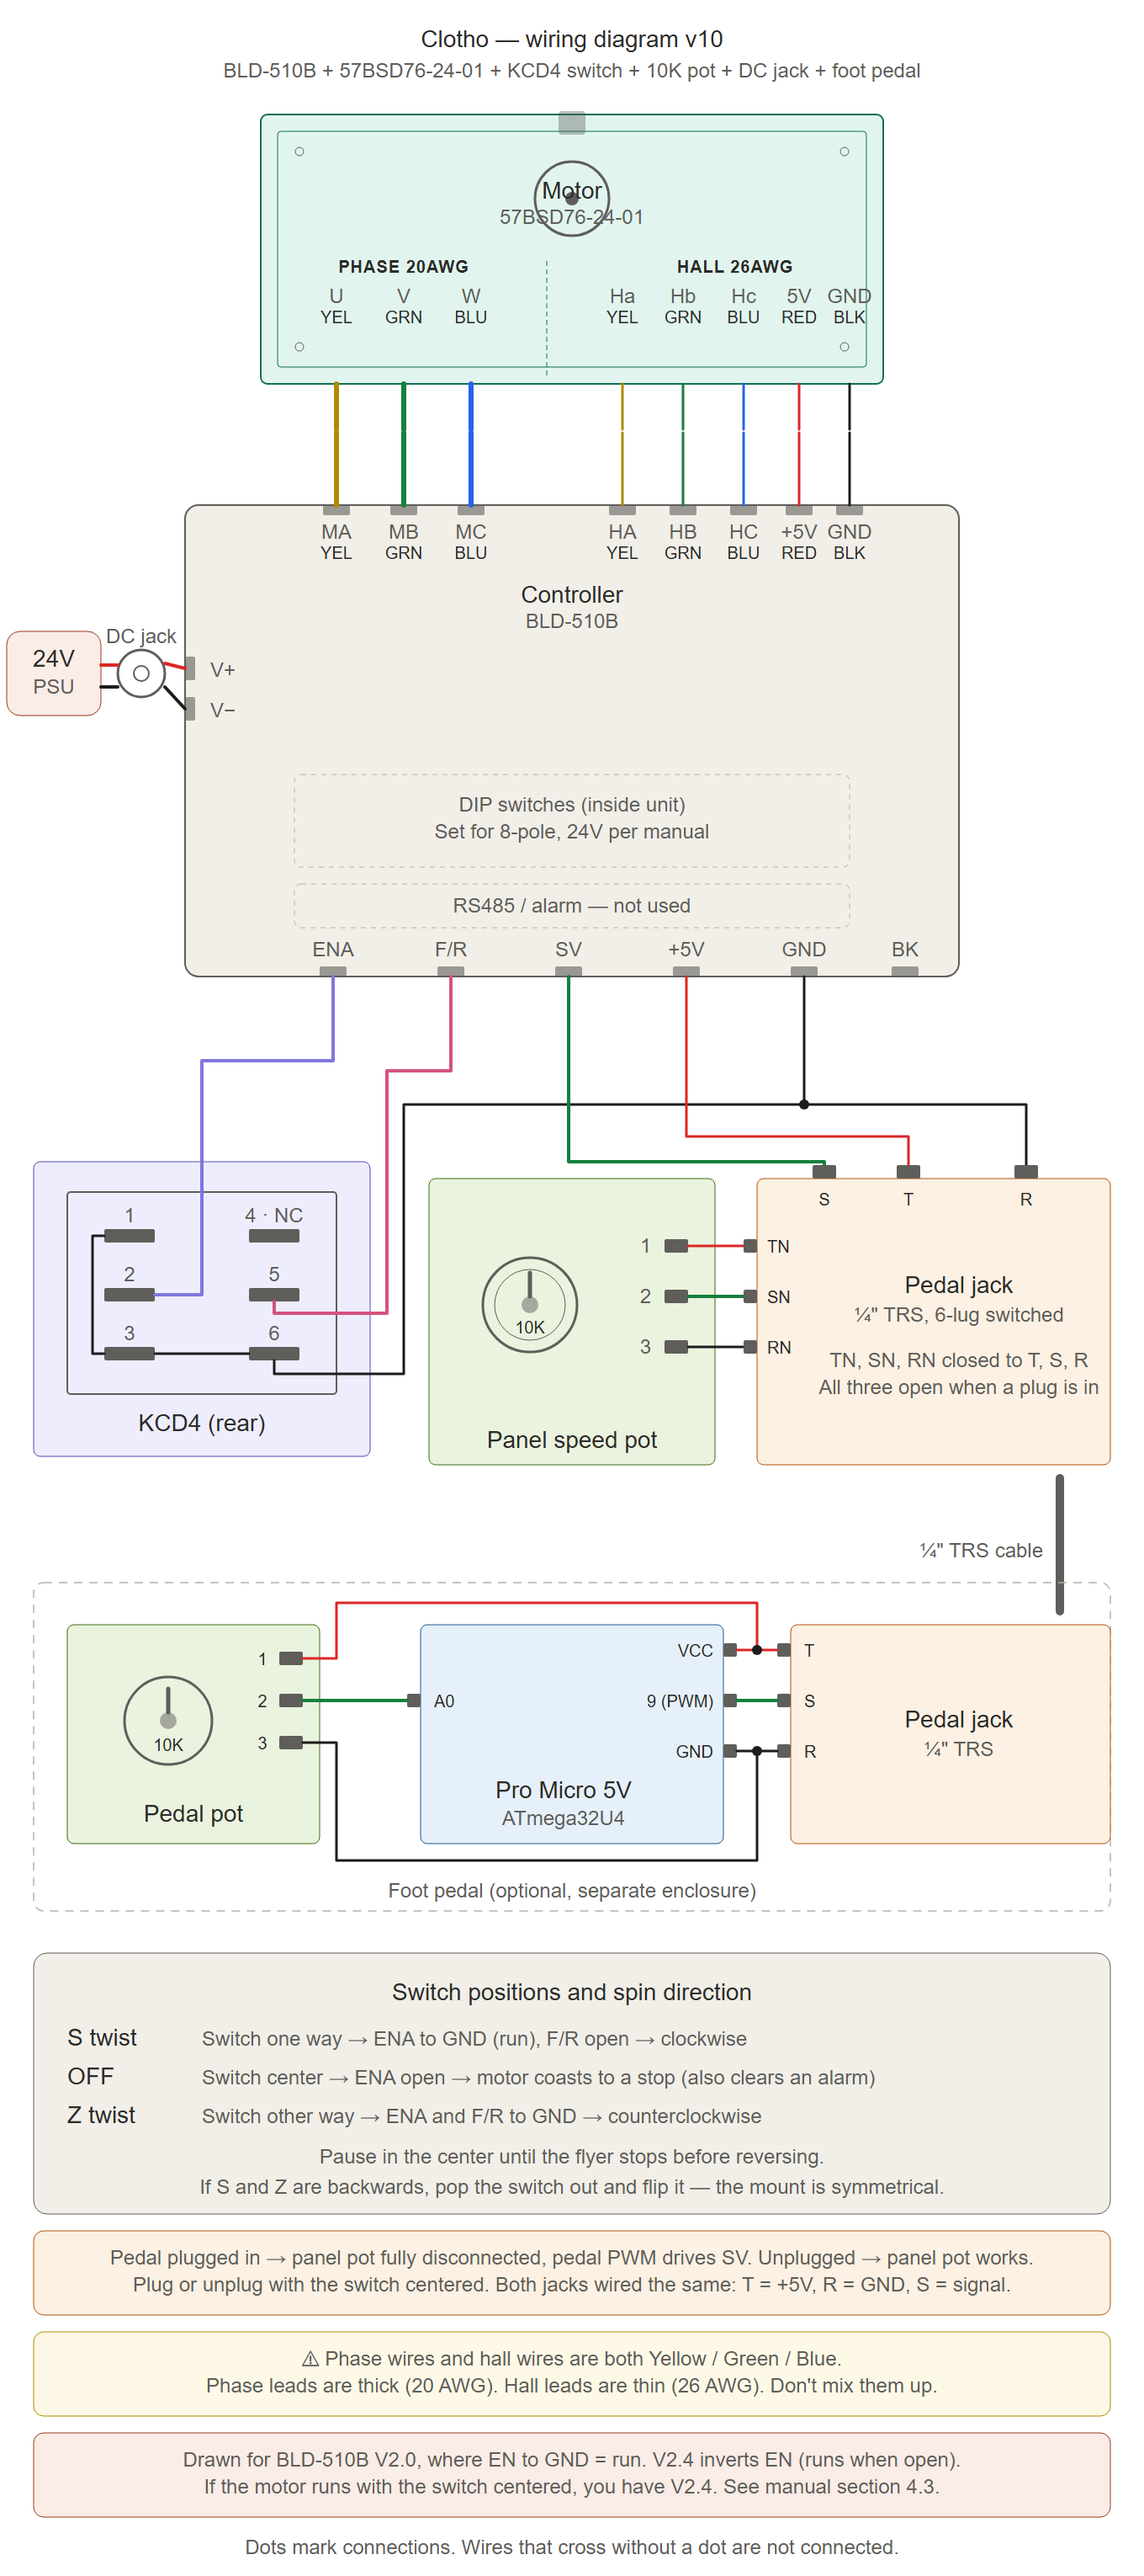
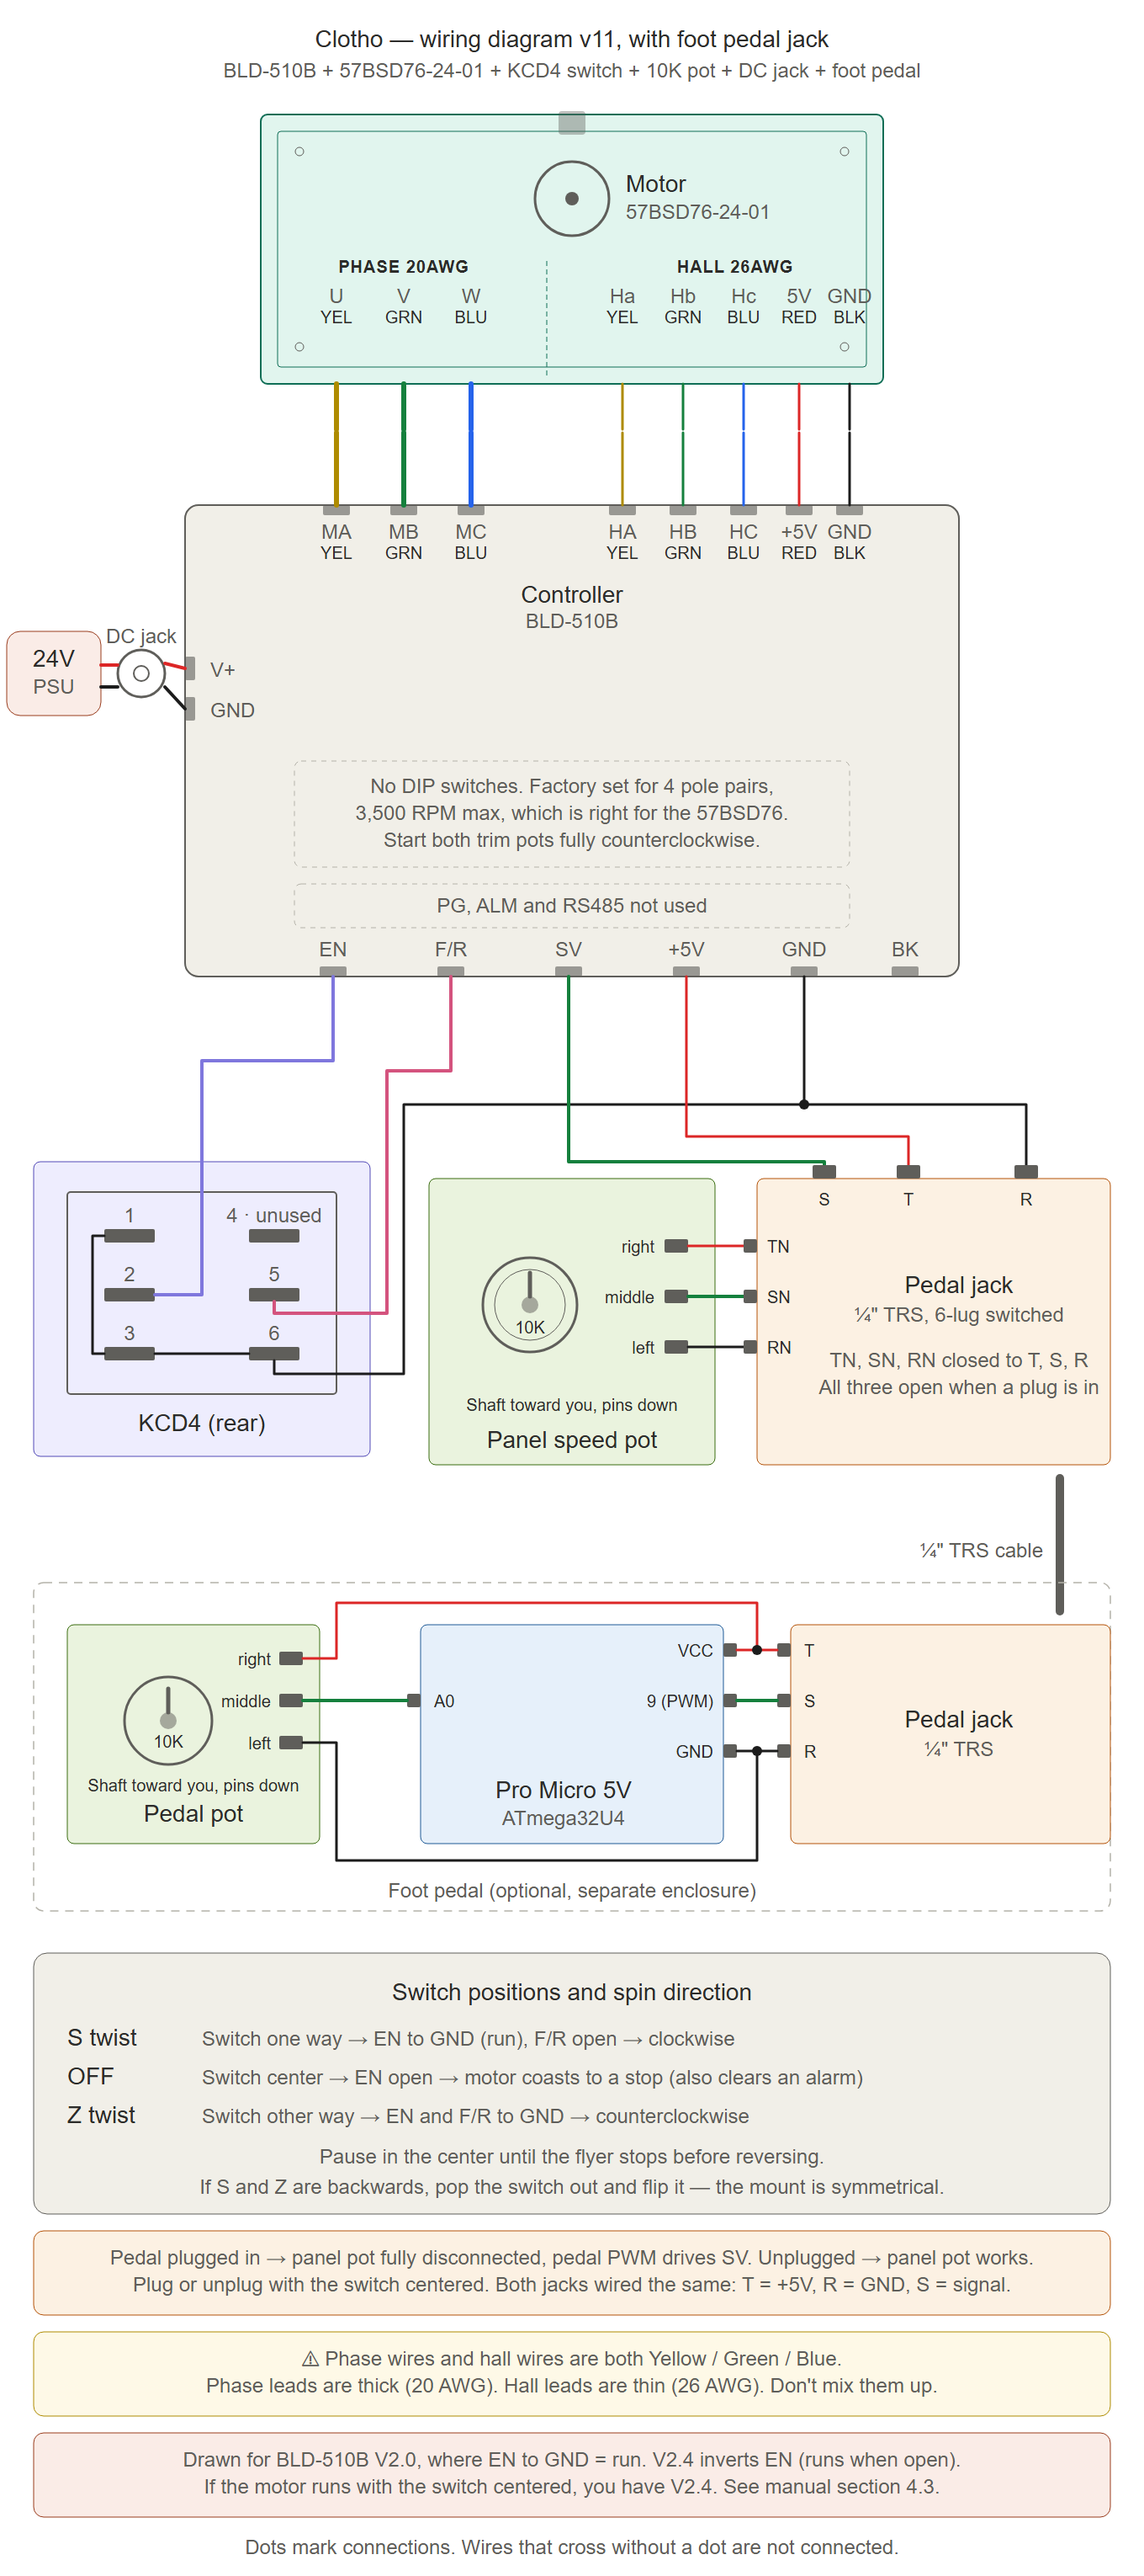
Wiring diagram v11, with and without the foot pedal jack
- The BLD-510B has no DIP switches; the note now says it's factory set
  for 4 pole pairs and 3,500 RPM and to start both trim pots fully CCW.
- Terminal names match the manual: EN (not ENA), and GND on the power
  connector (not V-).
- Pot pins are labeled right/middle/left (shaft toward you, pins down),
  matching the build guide, instead of maker-dependent numbers.
- New no-pedal version wires the panel pot straight to the driver.
- Motor label no longer sits on the shaft circle.

diff --git a/README.md b/README.md
@@ -41,8 +41,13 @@ Build notes and photos are on the Printables page linked above.
 - **Pot wiper:** A0
 - **PWM out:** pin 9 (Timer1 OC1A) to the BLD-510B speed input
 
-Full wiring: [docs/clotho_wiring_diagram.svg](docs/clotho_wiring_diagram.svg) (v10).
-The older diagram on Printables shows EN and F/R tied to +5V. That is wrong. Use this one.
+Full wiring (v11), in two versions:
+
+- With the foot pedal jack: [docs/clotho_wiring_diagram.svg](docs/clotho_wiring_diagram.svg)
+- Without it, with the speed pot wired straight to the driver:
+  [docs/clotho_wiring_diagram_no_pedal.svg](docs/clotho_wiring_diagram_no_pedal.svg)
+
+The older diagram on Printables shows EN and F/R tied to +5V. That is wrong. Use these.
 
 ![Clotho wiring diagram](docs/clotho_wiring_diagram.png)
 
